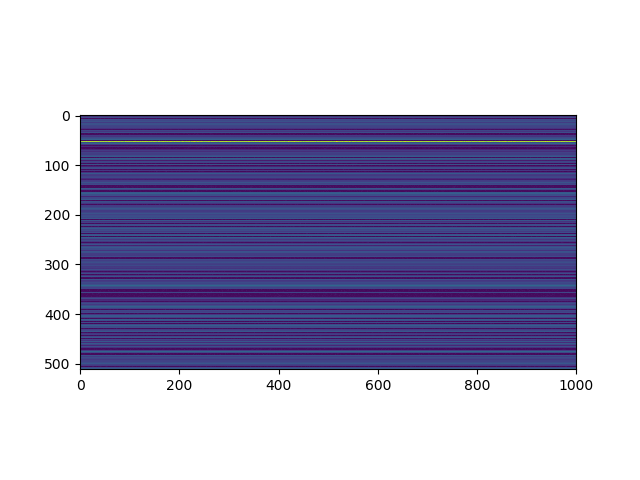
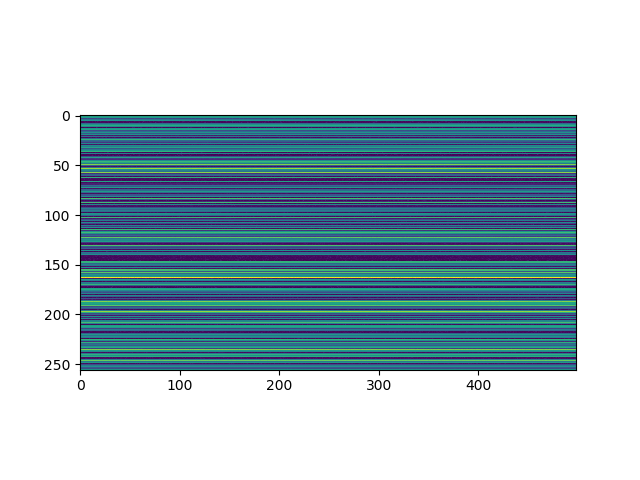
Started run with embedding of size 128 and l1 loss

diff --git a/pong.py b/pong.py
@@ -14,8 +14,8 @@ DEVICE = torch.device("cuda:0" if torch.cuda.is_available() else "cpu")
 
 def make_batch(idx, n, batch_size=1):
     tgt = torch.tensor(FILE[idx:idx+(n*batch_size)]).to(DEVICE)
-    tgt = tgt.view(n, batch_size, -1).float()
-    tgt = torch.clamp(torch.round(tgt), 0.0, 1.0)[:,:,:256]
+    tgt = tgt.view(n, batch_size, -1).float()[:,:,:128]
+    # tgt = torch.clamp(torch.round(tgt), 0.0, 1.0)
     seq = tgt.detach().clone()
     seq[torch.randint(0, n, (n//8,))] = 0.0 #-float("inf")
     return tgt[:-1], tgt[1:]
@@ -32,7 +32,7 @@ def generate_batch_indexes(start, stop, step):
     random.shuffle(idxs)
     return idxs
 
-transfomer = nn.Transformer(d_model=256, nhead=16, num_encoder_layers=12).to(DEVICE)
+transfomer = nn.Transformer(d_model=128, nhead=16, num_encoder_layers=12).to(DEVICE)
 # encoder_layers = nn.TransformerEncoderLayer(528, 16, 528, dropout=0.4)
 # transfomer = nn.TransformerEncoder(encoder_layers, 12).to(DEVICE)
 optim = torch.optim.Adam(transfomer.parameters())
@@ -55,7 +55,7 @@ for e in range(NUM_EPOCHS):
         # value_loss = F.mse_loss(out[:,:,518], tgt[:,:,518])
         # loss = emb_loss + action_loss + value_loss
         # loss = F.l1_loss(out, tgt)
-        loss = F.binary_cross_entropy(torch.sigmoid(out), tgt)
+        loss = F.l1_loss(out, tgt)
         loss.backward()     
         optim.step()
         train_losses.append(loss.item())
@@ -72,7 +72,7 @@ for e in range(NUM_EPOCHS):
         # test_value_loss.append(value_loss.item())
         # loss = emb_loss + action_loss + value_loss
         # loss = F.l1_loss(out, tgt)
-        loss = F.binary_cross_entropy(torch.sigmoid(out), tgt)
+        loss = F.l1_loss(out, tgt)
         test_losses.append(loss.item())
     print("Epoch:", e+1, "\tTrain Loss:", np.mean(train_losses), "\tTotal Test Loss:", np.mean(test_losses))
     # print("Emb Loss:", np.mean(test_emb_loss), "\tAction Loss:", np.mean(test_action_loss), "\tValue Loss:", np.mean(test_value_loss))
